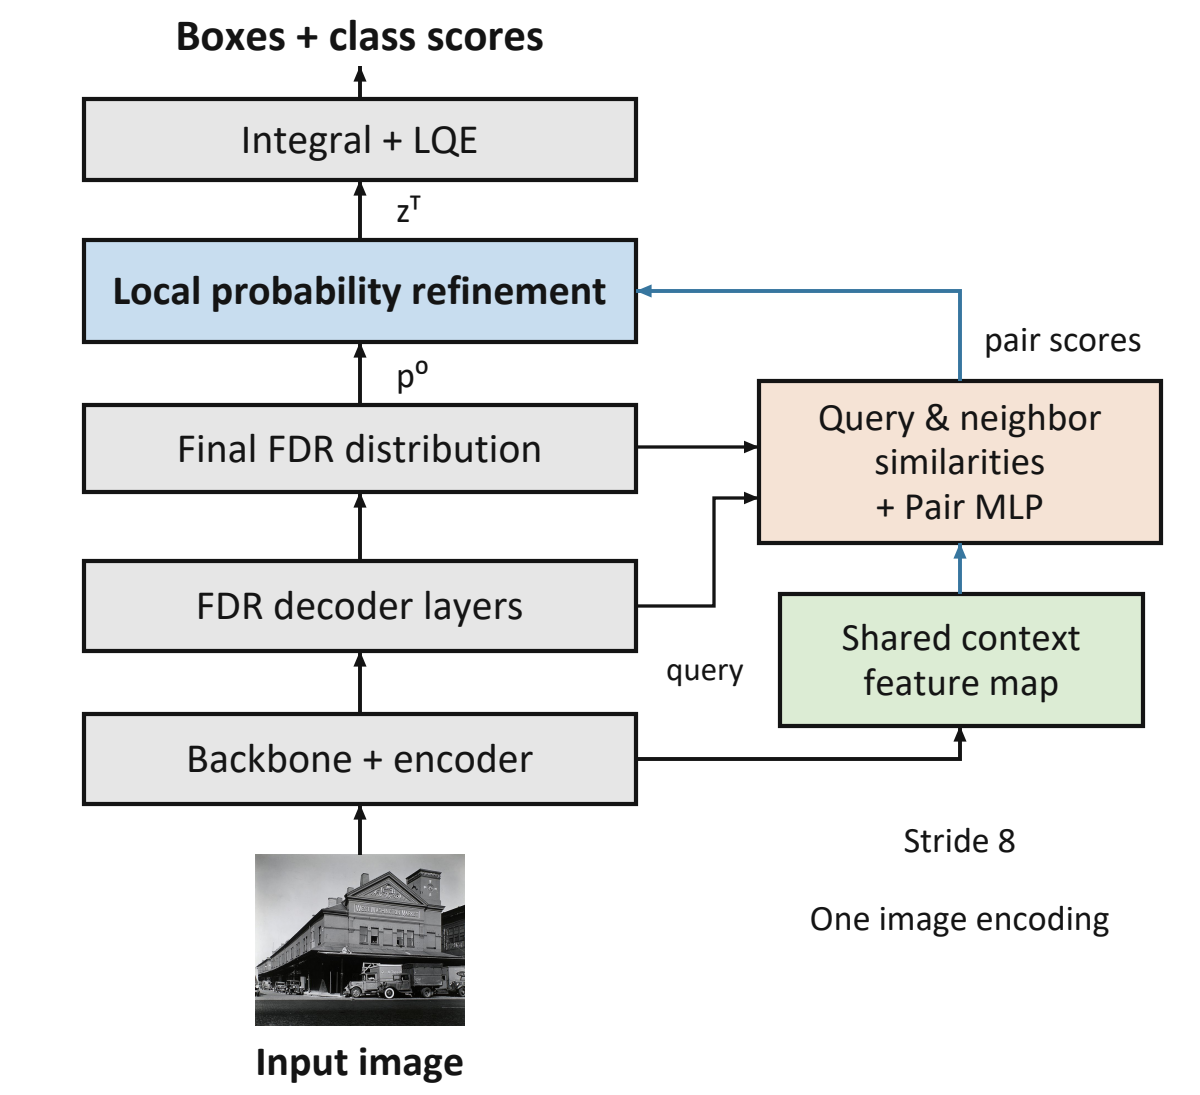
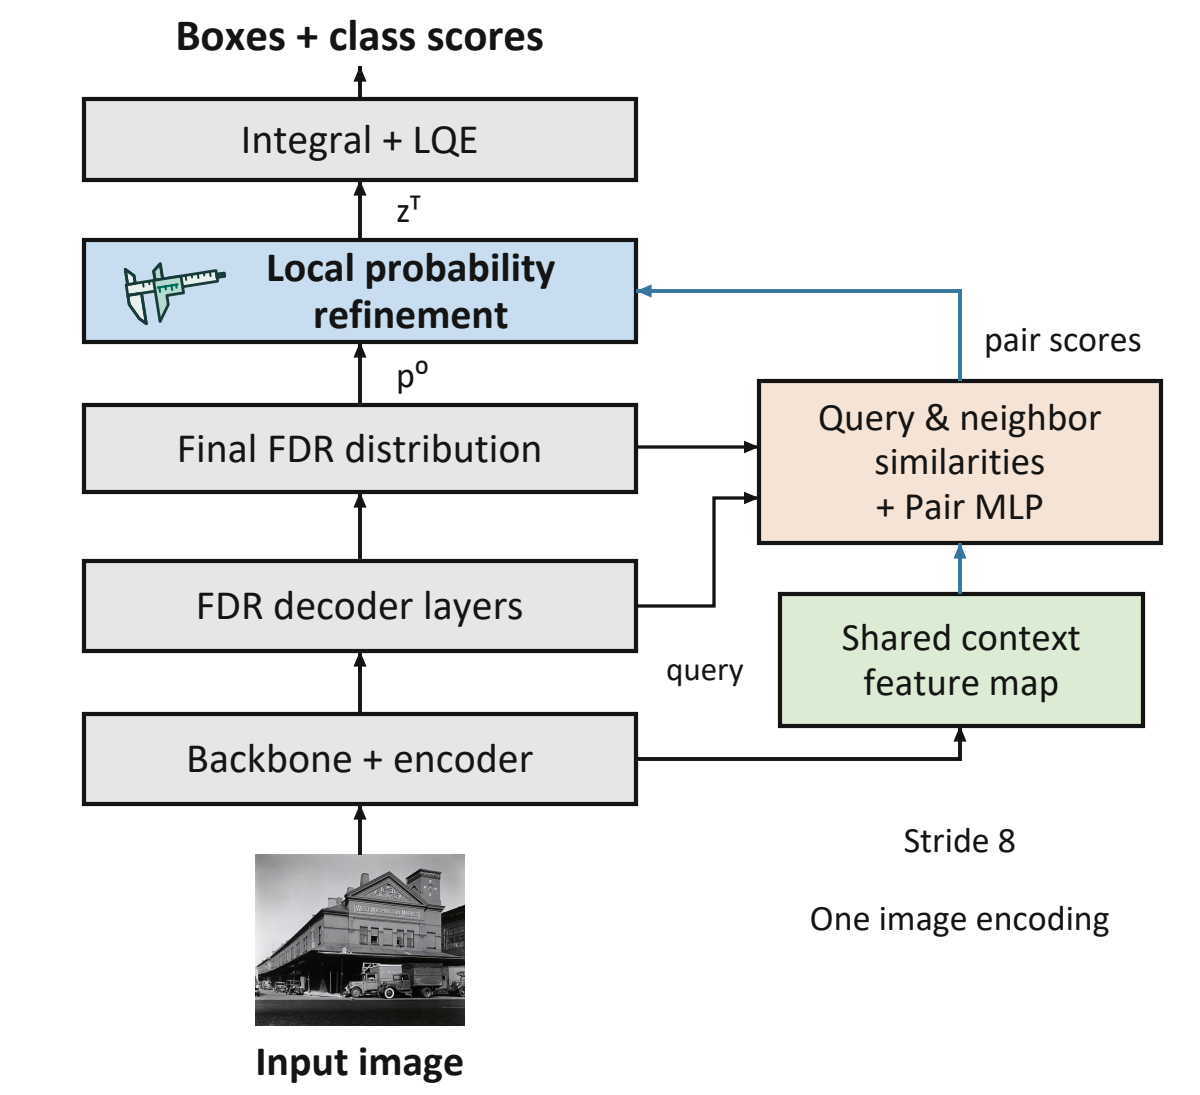
Mark the Vernier refinement head in Figures 1–3 with a caliper

Changed region(s): [[0.0925, 0.2174, 0.5242, 0.3105]]

diff --git a/ko.html b/ko.html
@@ -40,14 +40,14 @@
 <section aria-labelledby="overview-title" class="chapter" id="overview">
 <h2 id="overview-title">검출기 개요</h2>
 <figure id="figure-1" class="paper-figure paper-overview">
-<div class="paper-visual"><a class="figure-fullsize" href="assets/paper-figures/fig1-overview.pdf?v=8769f81f" aria-label="Figure 1 PDF 열기"><img src="assets/paper-figures/fig1-overview.webp?v=8769f81f" width="1200" height="1095" loading="lazy" alt="Pair MLP가 쿼리와 후보의 유사도, 이웃 후보끼리의 유사도를 읽는다. 보정한 로짓은 Integral과 LQE로 들어간다."/></a></div>
+<div class="paper-visual"><a class="figure-fullsize" href="assets/paper-figures/fig1-overview.pdf?v=0285f2fd" aria-label="Figure 1 PDF 열기"><img src="assets/paper-figures/fig1-overview.webp?v=0285f2fd" width="1200" height="1095" loading="lazy" alt="Pair MLP가 쿼리와 후보의 유사도, 이웃 후보끼리의 유사도를 읽는다. 보정한 로짓은 Integral과 LQE로 들어간다."/></a></div>
 <figcaption class="caption"><strong>Figure 1. Vernier-DETR의 전체 구조.</strong> 모든 쿼리가 stride-8 특징 맵을 공유한다. Pair MLP는 후보가 쿼리와 얼마나 비슷한지(<i>s</i><sub>i</sub>), 이웃 후보와 얼마나 비슷한지(<i>κ</i><sub>i</sub>)를 보고 두 위치 사이에서 옮길 확률을 정한다. 박스 좌표를 계산하는 Integral과 위치 품질을 추정하는 LQE는 모두 보정된 로짓 <i>z</i><sup>T</sup>를 받는다.</figcaption>
 </figure>
 </section>
 <section aria-labelledby="evolution-title" class="chapter evolution" id="evolution">
 <h2 id="evolution-title">D-FINE에서 Vernier-DETR까지</h2>
 <figure id="figure-2" class="paper-figure paper-animated">
-<div class="paper-visual paper-scroll" role="region" tabindex="0" aria-label="Figure 2, 가로로 스크롤해 세부 내용 보기"><a class="figure-fullsize" href="assets/paper-figures/fig2-evolution.pdf?v=cc54bdd1" aria-label="Figure 2 PDF 열기"><img src="assets/paper-figures/fig2-evolution.webp?v=cc54bdd1" data-animation="assets/paper-figures/fig2-evolution.gif?v=cc54bdd1" width="1800" height="728" loading="lazy" alt="D-FINE, DEIM, Vernier-DETR의 예측 경로. (c)에서 Vernier head는 보정된 로짓을 Integral과 LQE에 전달한다."/></a></div>
+<div class="paper-visual paper-scroll" role="region" tabindex="0" aria-label="Figure 2, 가로로 스크롤해 세부 내용 보기"><a class="figure-fullsize" href="assets/paper-figures/fig2-evolution.pdf?v=a7397754" aria-label="Figure 2 PDF 열기"><img src="assets/paper-figures/fig2-evolution.webp?v=a7397754" data-animation="assets/paper-figures/fig2-evolution.gif?v=a7397754" width="1800" height="728" loading="lazy" alt="D-FINE, DEIM, Vernier-DETR의 예측 경로. (c)에서 Vernier head는 보정된 로짓을 Integral과 LQE에 전달한다."/></a></div>
 <figcaption class="caption"><strong>Figure 2. 세 방법이 검출기를 바꾸는 지점.</strong> D-FINE은 디코더 층마다 경계 후보의 점수를 갱신한다. DEIM은 dense one-to-one matching으로 학습 방식을 바꾼다. Vernier-DETR은 이 매칭을 그대로 쓰고, 쿼리와 후보의 유사도 및 이웃 후보끼리의 유사도로 마지막 분포를 보정한다. Pair MLP는 기존 위치 손실로 학습한다.</figcaption>
 </figure>
 </section>
@@ -55,7 +55,7 @@
 <h2 id="architecture-title">Vernier-DETR의 구조</h2>
 <div id="architecture-film">
 <figure id="figure-3" class="paper-figure paper-animated">
-<div class="paper-visual paper-scroll" role="region" tabindex="0" aria-label="Figure 3, 가로로 스크롤해 세부 내용 보기"><a class="figure-fullsize" href="assets/paper-figures/fig3-framework.pdf" aria-label="Figure 3 PDF 열기"><img src="assets/paper-figures/fig3-framework.webp" data-animation="assets/paper-figures/fig3-framework.gif" width="1800" height="708" loading="lazy" alt="FDR 디코더의 여섯 층이 변마다 후보 33개의 점수를 갱신한다. Vernier head의 보정된 로짓은 박스 Integral과 LQE에 들어간다."/></a></div>
+<div class="paper-visual paper-scroll" role="region" tabindex="0" aria-label="Figure 3, 가로로 스크롤해 세부 내용 보기"><a class="figure-fullsize" href="assets/paper-figures/fig3-framework.pdf?v=e4765cc2" aria-label="Figure 3 PDF 열기"><img src="assets/paper-figures/fig3-framework.webp?v=e4765cc2" data-animation="assets/paper-figures/fig3-framework.gif?v=e4765cc2" width="1800" height="708" loading="lazy" alt="FDR 디코더의 여섯 층이 변마다 후보 33개의 점수를 갱신한다. Vernier head의 보정된 로짓은 박스 Integral과 LQE에 들어간다."/></a></div>
 <figcaption class="caption"><strong>Figure 3. 6층 디코더와 Vernier head.</strong> 첫 디코더 층이 후보 좌표를 정한다. 여섯 번째 층을 지난 뒤 Vernier head는 그 좌표에서 특징을 읽고, 같은 Pair MLP로 보정을 두 번 수행한다. 보정한 로짓 <i>z</i><sup>T</sup>에 softmax를 적용하면 후보 확률 <i>p</i><sup>T</sup>가 된다. Integral은 이 분포의 기댓값으로 각 변의 좌표를 구하고, LQE는 같은 분포로 클래스 점수를 보정한다.</figcaption>
 </figure>
 </div>

diff --git a/index.html b/index.html
@@ -40,14 +40,14 @@
 <section aria-labelledby="overview-title" class="chapter" id="overview">
 <h2 id="overview-title">Detector overview</h2>
 <figure id="figure-1" class="paper-figure paper-overview">
-<div class="paper-visual"><a class="figure-fullsize" href="assets/paper-figures/fig1-overview.pdf?v=8769f81f" aria-label="Open Figure 1 as a PDF"><img src="assets/paper-figures/fig1-overview.webp?v=8769f81f" width="1200" height="1095" loading="lazy" alt="The pair MLP uses query–candidate and neighbor similarities. Both the box integral and LQE receive the refined edge logits."/></a></div>
+<div class="paper-visual"><a class="figure-fullsize" href="assets/paper-figures/fig1-overview.pdf?v=0285f2fd" aria-label="Open Figure 1 as a PDF"><img src="assets/paper-figures/fig1-overview.webp?v=0285f2fd" width="1200" height="1095" loading="lazy" alt="The pair MLP uses query–candidate and neighbor similarities. Both the box integral and LQE receive the refined edge logits."/></a></div>
 <figcaption class="caption"><strong>Figure 1. Vernier-DETR overview.</strong> All queries share a stride-8 feature map. The pair MLP compares each candidate with the query (<i>s</i><sub>i</sub>) and with its neighbor (<i>κ</i><sub>i</sub>). Its output controls the probability transferred between the two positions. The box integral and localization-quality estimation (LQE) both receive the refined logits <i>z</i><sup>T</sup>.</figcaption>
 </figure>
 </section>
 <section aria-labelledby="evolution-title" class="chapter evolution" id="evolution">
 <h2 id="evolution-title">From D-FINE to Vernier-DETR</h2>
 <figure id="figure-2" class="paper-figure paper-animated">
-<div class="paper-visual paper-scroll" role="region" tabindex="0" aria-label="Figure 2, scroll horizontally for details"><a class="figure-fullsize" href="assets/paper-figures/fig2-evolution.pdf?v=cc54bdd1" aria-label="Open Figure 2 as a PDF"><img src="assets/paper-figures/fig2-evolution.webp?v=cc54bdd1" data-animation="assets/paper-figures/fig2-evolution.gif?v=cc54bdd1" width="1800" height="728" loading="lazy" alt="D-FINE, DEIM and Vernier-DETR share a decoder prediction path. In panel (c), the Vernier head feeds refined logits to the box integral and LQE."/></a></div>
+<div class="paper-visual paper-scroll" role="region" tabindex="0" aria-label="Figure 2, scroll horizontally for details"><a class="figure-fullsize" href="assets/paper-figures/fig2-evolution.pdf?v=a7397754" aria-label="Open Figure 2 as a PDF"><img src="assets/paper-figures/fig2-evolution.webp?v=a7397754" data-animation="assets/paper-figures/fig2-evolution.gif?v=a7397754" width="1800" height="728" loading="lazy" alt="D-FINE, DEIM and Vernier-DETR share a decoder prediction path. In panel (c), the Vernier head feeds refined logits to the box integral and LQE."/></a></div>
 <figcaption class="caption"><strong>Figure 2. Where each method changes the detector.</strong> D-FINE updates candidate scores at each decoder layer. DEIM changes training through dense one-to-one matching. Vernier-DETR keeps this matching and uses query–candidate and neighbor similarities to refine the final distribution. The existing localization loss supervises the pair MLP.</figcaption>
 </figure>
 </section>
@@ -55,7 +55,7 @@
 <h2 id="architecture-title">Vernier-DETR architecture</h2>
 <div id="architecture-film">
 <figure id="figure-3" class="paper-figure paper-animated">
-<div class="paper-visual paper-scroll" role="region" tabindex="0" aria-label="Figure 3, scroll horizontally for details"><a class="figure-fullsize" href="assets/paper-figures/fig3-framework.pdf" aria-label="Open Figure 3 as a PDF"><img src="assets/paper-figures/fig3-framework.webp" data-animation="assets/paper-figures/fig3-framework.gif" width="1800" height="708" loading="lazy" alt="The six-layer FDR decoder scores 33 candidates per edge. The Vernier head sends the refined logits to the box integral and LQE."/></a></div>
+<div class="paper-visual paper-scroll" role="region" tabindex="0" aria-label="Figure 3, scroll horizontally for details"><a class="figure-fullsize" href="assets/paper-figures/fig3-framework.pdf?v=e4765cc2" aria-label="Open Figure 3 as a PDF"><img src="assets/paper-figures/fig3-framework.webp?v=e4765cc2" data-animation="assets/paper-figures/fig3-framework.gif?v=e4765cc2" width="1800" height="708" loading="lazy" alt="The six-layer FDR decoder scores 33 candidates per edge. The Vernier head sends the refined logits to the box integral and LQE."/></a></div>
 <figcaption class="caption"><strong>Figure 3. The six-layer decoder and the Vernier head.</strong> The first decoder layer sets the candidate coordinates. After the sixth layer, the Vernier head reads the shared feature map at those positions and applies the same pair MLP twice. A softmax converts the refined logits <i>z</i><sup>T</sup> into probabilities <i>p</i><sup>T</sup>. The box integral takes their expectation to locate each edge, and LQE uses them to adjust class scores.</figcaption>
 </figure>
 </div>
